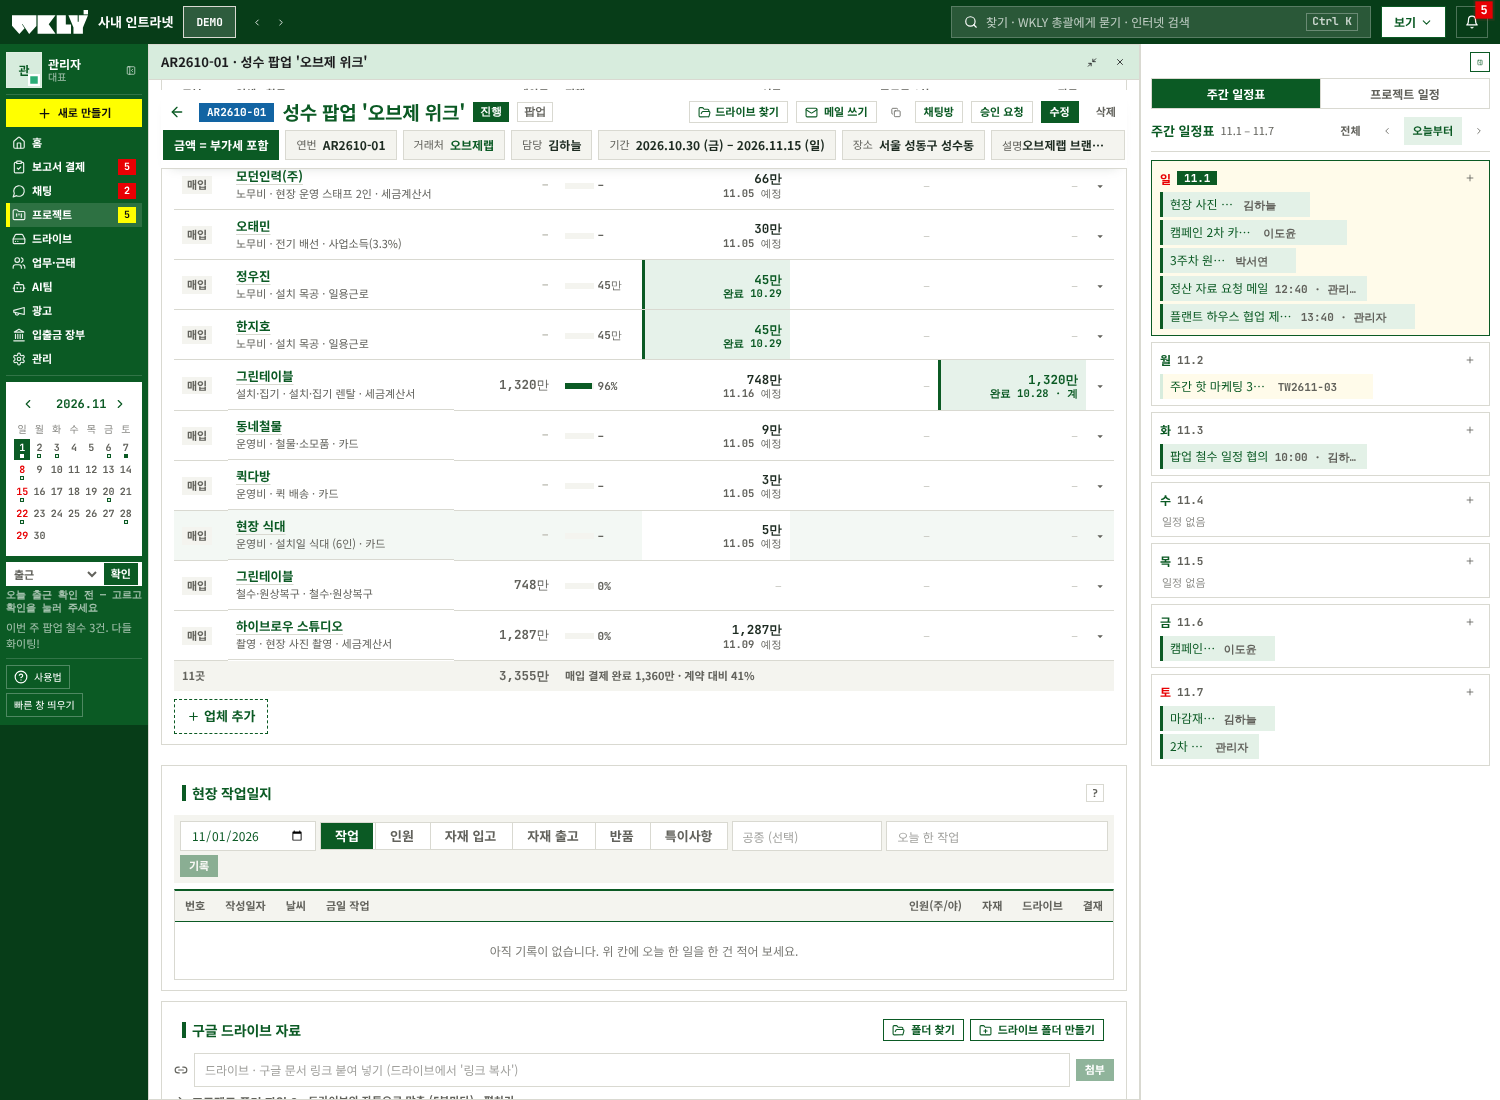
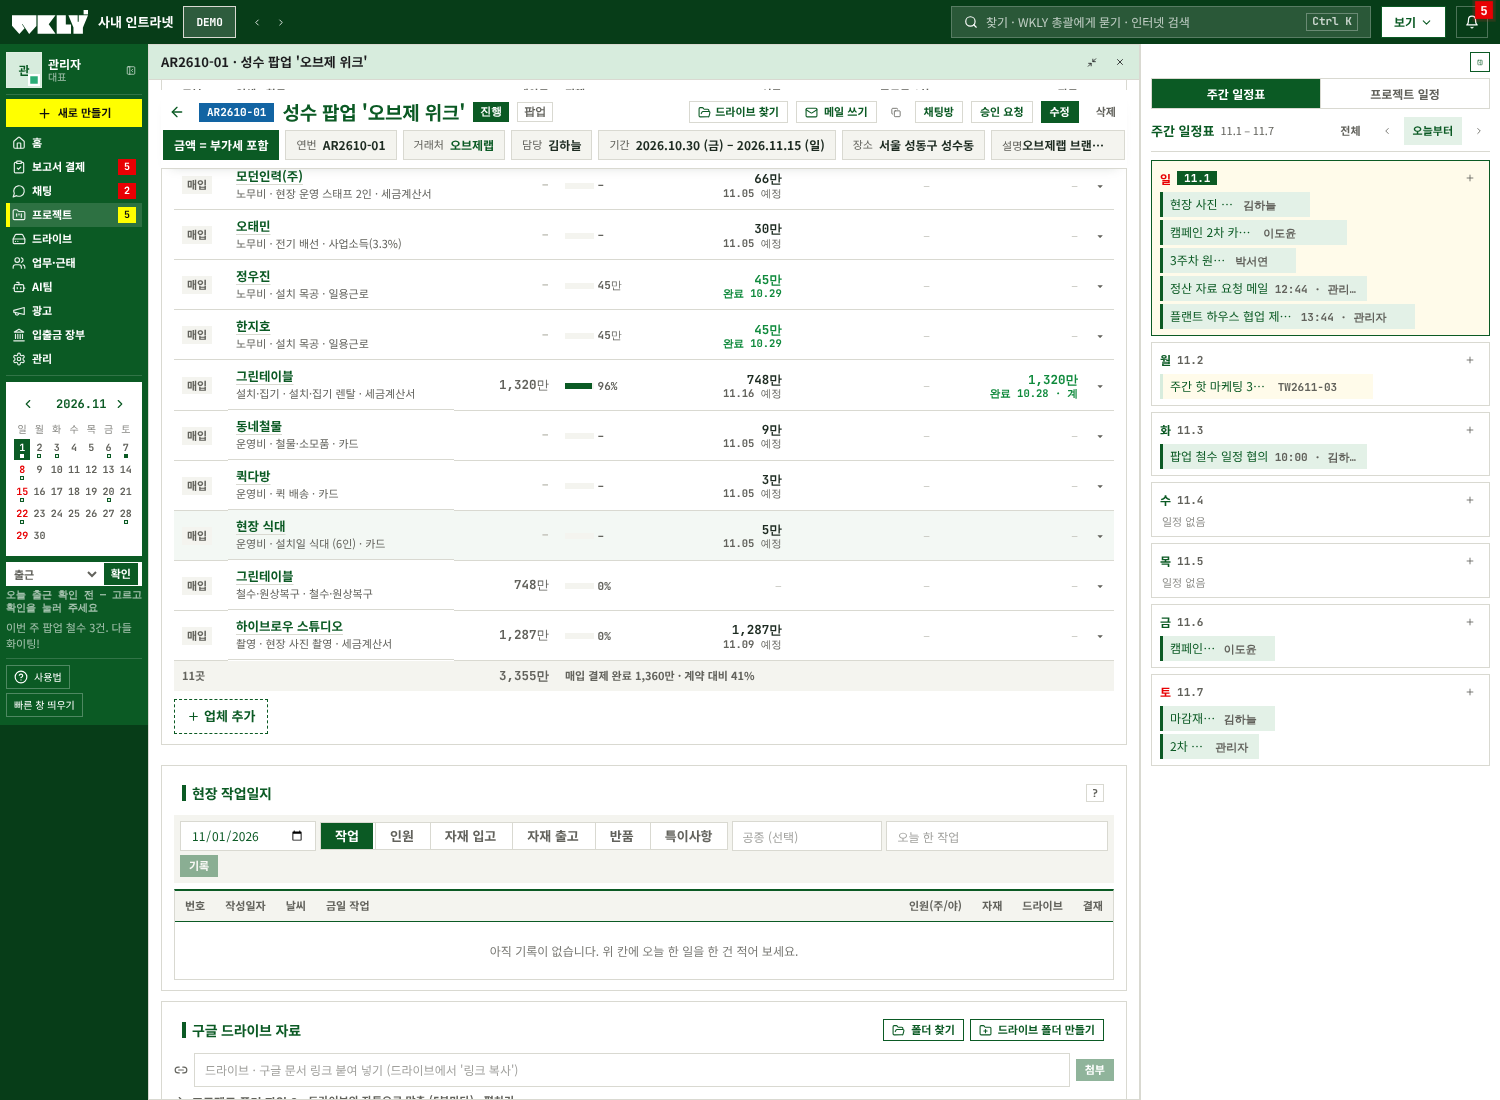
협력업체 결제 상태: 바탕색 대신 글자색으로만 구분 (완료 초록 · 예정 기본 · 연체 빨강)
Claude-Session: https://claude.ai/code/session_01F3gTQwJrgJEzSdbh5GAwru

Changed region(s): [[0.4293, 0.2164, 0.552, 0.34], [0.6133, 0.3091, 0.736, 0.3709], [0.9813, 0.0, 1.0, 0.0309]]

diff --git a/erp/src/styles.css b/erp/src/styles.css
@@ -3106,3 +3106,14 @@ input[type='radio'] { border-radius: 50% !important; }
 .vs-alldone { display: inline-block; margin-right: 5px; padding: 0 5px; background: var(--blue); color: #fff; font-size: 10px; font-weight: 800; }
 .vf-done { margin-left: 6px; padding: 1px 6px; background: var(--blue); color: #fff; font-size: 10.5px; font-weight: 800; }
 .vf-stage.done { background: #f1f8f3; }
+/* 결제 상태는 글자색으로만 구분 (2026-11-01 "구분을 글자색으로") — 바탕 · 띠 없음 */
+.vendor-sum td.st-done, .vendor-sum td.st-late, .vendor-sum td.st-plan { background: transparent; box-shadow: none; }
+.vs-row:hover > td.st-done, .vs-row:hover > td.st-late, .vs-row:hover > td.st-plan { background: #f3f8f4; }
+.vs-row.open > td.st-done, .vs-row.open > td.st-late, .vs-row.open > td.st-plan { background: var(--blue-tint); }
+.vendor-sum td.st-done .vs-amt, .vendor-sum td.st-done .vs-amt em { color: #0f8a3c; }
+.vendor-sum td.st-late .vs-amt, .vendor-sum td.st-late .vs-amt em { color: var(--red); }
+.vendor-sum td.st-plan .vs-amt { color: #1d2b21; }
+.vendor-sum td.st-plan .vs-amt em { color: var(--gray); }
+.vs-alldone { background: none; color: #0f8a3c; padding: 0; margin-right: 6px; font-size: 11px; }
+.vf-done { background: none; color: #0f8a3c; padding: 0; font-size: 11.5px; }
+.vf-stage.done { background: var(--white); box-shadow: none; border-color: var(--line); }
